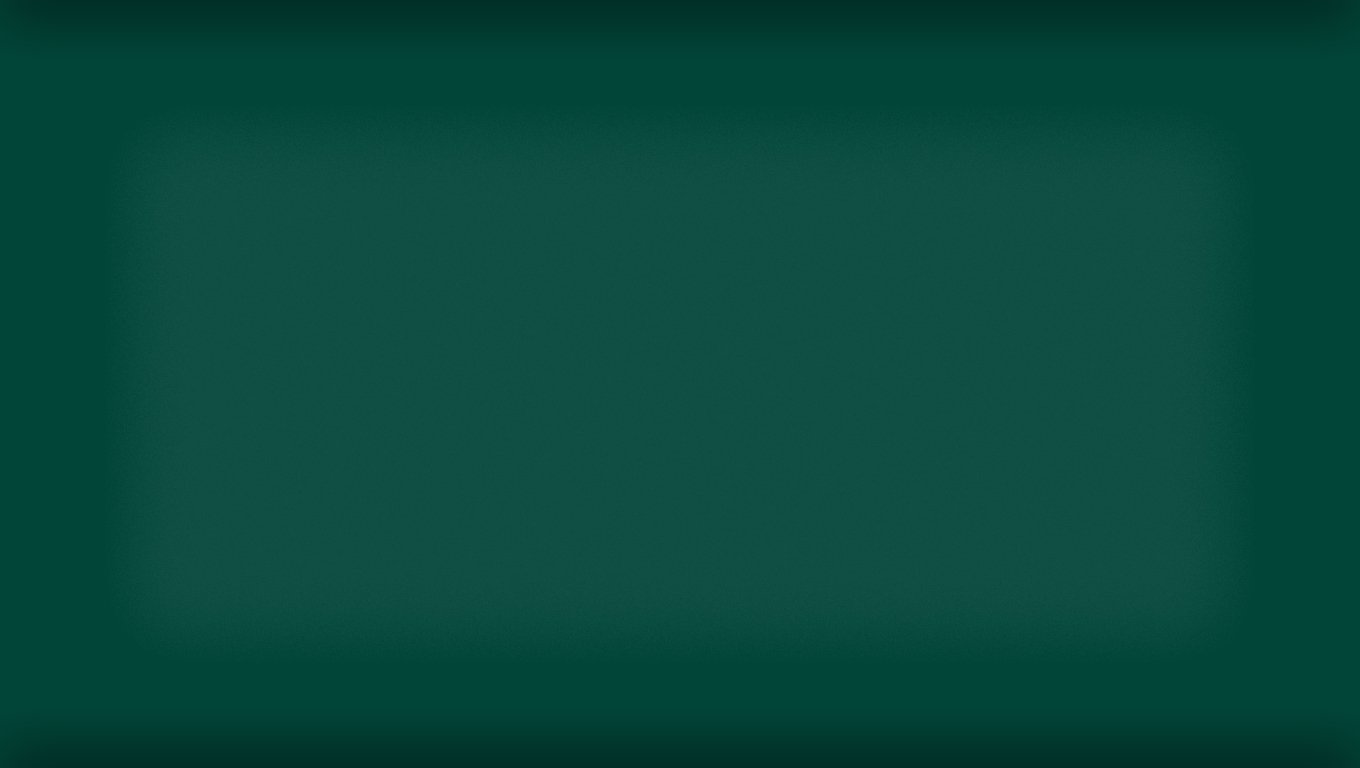
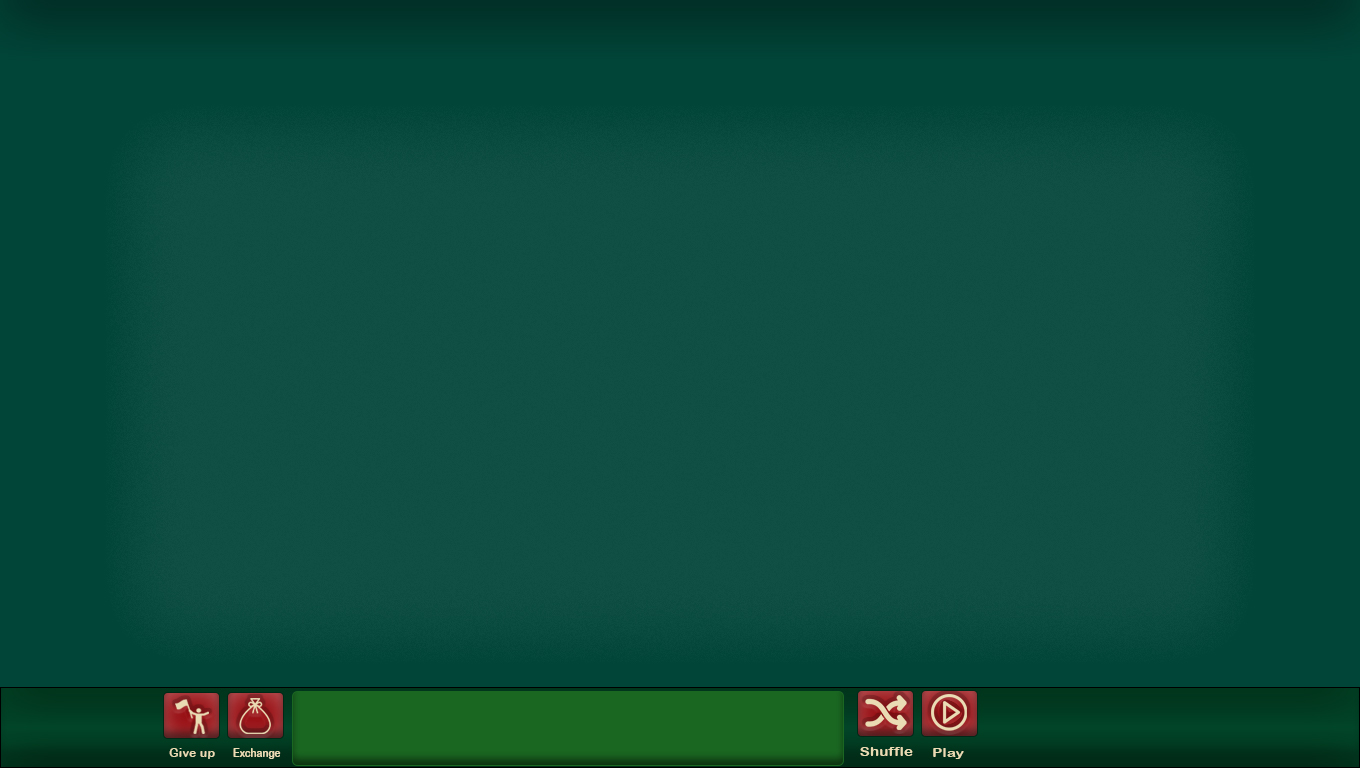
#48 Buttons implemented/ Letter Tiles uploaded

Changed region(s): [[0.0, 0.875, 1.0, 1.0], [0.9882, 0.9688, 1.0, 1.0]]

diff --git a/src/main/java/com/scrab5/ui/App.java b/src/main/java/com/scrab5/ui/App.java
@@ -16,7 +16,7 @@ public class App extends Application {
 
   @Override
   public void start(Stage stage) throws IOException {
-    scene = new Scene(loadFXML("Login"), 1360, 768);
+    scene = new Scene(loadFXML("Singleplayer"), 1360, 768);
     stage.setScene(scene);
     stage.setTitle("Scrabble - Group 5");
     stage.setResizable(false);
